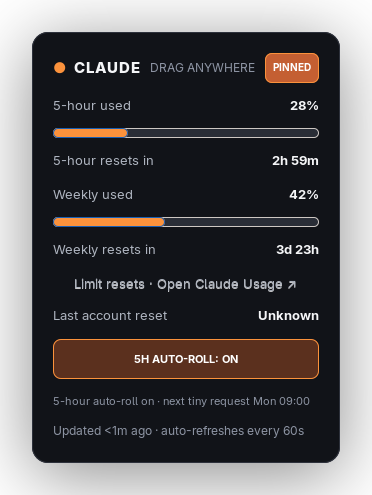
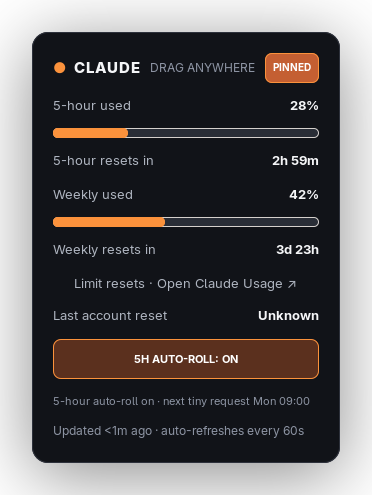
Fix Claude login renewal and orange progress borders

diff --git a/tests/test_claude_client.py b/tests/test_claude_client.py
@@ -12,6 +12,7 @@ from types import SimpleNamespace
 from unittest.mock import Mock, patch
 from urllib.error import HTTPError, URLError
 
+from codex_widget import __version__
 from codex_widget.claude_client import ClaudeClient, ClaudeClientError, USAGE_URL, detect_claude
 
 
@@ -81,18 +82,37 @@ class ClaudeClientTests(unittest.TestCase):
     def test_refreshes_expired_credentials_and_preserves_other_fields(self):
         document = json.loads(self.path.read_text())
         document["claudeAiOauth"]["expiresAt"] = 0
+        document["claudeAiOauth"]["scopes"] = ["user:profile", "user:inference"]
         self.path.write_text(json.dumps(document))
         opener = Mock(side_effect=[
-            response({"access_token": "new-access", "refresh_token": "new-refresh", "expires_in": 3600}),
+            HTTPError(USAGE_URL, 401, "Unauthorized", {}, None),
+            response({"access_token": "new-access", "refresh_token": "new-refresh", "expires_in": 3600,
+                      "refresh_token_expires_in": 7200}),
             response(self.data),
         ])
-        self.client(opener).read_rate_limits()
+        with patch("codex_widget.claude_client.time.time", return_value=1000):
+            self.client(opener).read_rate_limits()
         saved = json.loads(self.path.read_text())
         self.assertEqual(saved["claudeAiOauth"]["accessToken"], "new-access")
+        self.assertEqual(saved["claudeAiOauth"]["refreshToken"], "new-refresh")
+        self.assertEqual(saved["claudeAiOauth"]["expiresAt"], 4_600_000)
+        self.assertEqual(saved["claudeAiOauth"]["refreshTokenExpiresAt"], 8_200_000)
         self.assertEqual(saved["claudeAiOauth"]["subscriptionType"], "pro")
         self.assertEqual(saved["otherCredential"], {"preserve": True})
         self.assertEqual(self.path.stat().st_mode & 0o777, 0o600)
         self.assertEqual(opener.call_args.args[0].get_header("Authorization"), "Bearer new-access")
+        renewal = opener.call_args_list[1].args[0]
+        self.assertEqual(json.loads(renewal.data)["scope"], "user:profile user:inference")
+        self.assertEqual(renewal.get_header("User-agent"), f"codex-widget/{__version__}")
+
+    def test_stale_local_expiry_does_not_interrupt_working_usage(self):
+        document = json.loads(self.path.read_text())
+        document["claudeAiOauth"]["expiresAt"] = 0
+        self.path.write_text(json.dumps(document))
+        opener = Mock(return_value=response(self.data))
+        self.assertEqual(self.client(opener).read_rate_limits().used_percent, 42)
+        self.assertEqual(opener.call_count, 1)
+        self.assertEqual(opener.call_args.args[0].full_url, USAGE_URL)
 
     def test_unauthorized_usage_refreshes_once(self):
         opener = Mock(side_effect=[
@@ -106,12 +126,79 @@ class ClaudeClientTests(unittest.TestCase):
     def test_failed_login_never_leaks_token_error_bodies(self):
         opener = Mock(side_effect=[
             HTTPError(USAGE_URL, 401, "test-access", {}, None),
-            HTTPError(USAGE_URL, 400, "test-refresh", {}, None),
+            HTTPError(USAGE_URL, 400, "test-refresh", {}, response({
+                "error": "invalid_grant", "error_description": "test-refresh",
+            })),
         ])
         with self.assertRaisesRegex(ClaudeClientError, "claude auth login") as caught:
             self.client(opener).read_rate_limits()
         self.assertNotIn("test-access", str(caught.exception))
         self.assertNotIn("test-refresh", str(caught.exception))
+
+    def test_temporary_renewal_failures_do_not_claim_logout(self):
+        for status, body in (
+            (403, {"status": 403, "cloudflare_error": True, "detail": "test-refresh"}),
+            (500, {"error": "server_error"}),
+            (400, {"error": "invalid_request"}),
+        ):
+            with self.subTest(status=status):
+                before = self.path.read_text()
+                opener = Mock(side_effect=[
+                    HTTPError(USAGE_URL, 401, "Unauthorized", {}, None),
+                    HTTPError(USAGE_URL, status, "test-refresh", {}, response(body)),
+                ])
+                with self.assertRaisesRegex(ClaudeClientError, f"HTTP {status}") as caught:
+                    self.client(opener).read_rate_limits()
+                self.assertNotIn("expired", str(caught.exception))
+                self.assertNotIn("claude auth login", str(caught.exception))
+                self.assertNotIn("test-refresh", str(caught.exception))
+                self.assertEqual(self.path.read_text(), before)
+
+    def test_forbidden_usage_does_not_claim_logout(self):
+        opener = Mock(side_effect=HTTPError(USAGE_URL, 403, "Forbidden", {}, None))
+        with self.assertRaisesRegex(ClaudeClientError, "access denied") as caught:
+            self.client(opener).read_rate_limits()
+        self.assertNotIn("claude auth login", str(caught.exception))
+
+    def test_picks_up_cli_token_rotation_without_restart_or_cached_old_usage(self):
+        opener = Mock(side_effect=[response(self.data), response(self.data)])
+        client = self.client(opener)
+        client.read_rate_limits()
+        document = json.loads(self.path.read_text())
+        document["claudeAiOauth"]["accessToken"] = "cli-new-access"
+        self.path.write_text(json.dumps(document))
+        client.read_rate_limits()
+        self.assertEqual(opener.call_count, 2)
+        self.assertEqual(opener.call_args.args[0].get_header("Authorization"), "Bearer cli-new-access")
+
+    def test_reuses_cli_token_rotated_during_failed_renewal(self):
+        def renewed_by_cli(*_args, **_kwargs):
+            document = json.loads(self.path.read_text())
+            document["claudeAiOauth"]["accessToken"] = "cli-new-access"
+            self.path.write_text(json.dumps(document))
+            raise HTTPError(USAGE_URL, 400, "Bad Request", {}, response({"error": "invalid_grant"}))
+
+        def request(req, **kwargs):
+            if req.get_method() == "POST":
+                return renewed_by_cli(req, **kwargs)
+            if req.get_header("Authorization") == "Bearer cli-new-access":
+                return response(self.data)
+            raise HTTPError(USAGE_URL, 401, "Unauthorized", {}, None)
+        opener = Mock(side_effect=request)
+        client = self.client(opener)
+        self.assertEqual(client.read_rate_limits().used_percent, 42)
+        self.assertEqual(opener.call_args.args[0].get_header("Authorization"), "Bearer cli-new-access")
+
+    def test_renewal_rate_limit_blocks_forced_reads(self):
+        opener = Mock(side_effect=[
+            HTTPError(USAGE_URL, 401, "Unauthorized", {}, None),
+            HTTPError(USAGE_URL, 429, "Slow down", {}, response({"error": "rate_limited"})),
+        ])
+        client = self.client(opener)
+        for force in (False, True):
+            with self.assertRaisesRegex(ClaudeClientError, "rate limited"):
+                client.read_rate_limits(force=force)
+        self.assertEqual(opener.call_count, 2)
 
     def test_rate_limit_blocks_even_forced_verification_reads(self):
         opener = Mock(side_effect=HTTPError(USAGE_URL, 429, "slow down", {}, None))

diff --git a/src/codex_widget/claude_client.py b/src/codex_widget/claude_client.py
@@ -14,6 +14,7 @@ from typing import Any, Callable
 from urllib.error import HTTPError, URLError
 from urllib.request import Request, urlopen
 
+from . import __version__
 from .models import UsageSnapshot
 
 USAGE_URL = "https://api.anthropic.com/api/oauth/usage"
@@ -22,6 +23,7 @@ _TOKEN_URL = "https://platform.claude.com/v1/oauth/token"
 # Public client identifier shipped in Claude Code's OAuth configuration.
 _CLIENT_ID = "9d1c250a-e61b-44d9-88ed-5944d1962f5e"
 _MAX_BYTES = 1_000_000
+_USER_AGENT = f"codex-widget/{__version__}"
 
 
 class ClaudeClientError(RuntimeError):
@@ -107,23 +109,44 @@ class ClaudeClient:
             if not isinstance(refresh, str) or not refresh:
                 raise ClaudeClientError("Claude session expired; run claude auth login")
             try:
+                payload = {
+                    "grant_type": "refresh_token",
+                    "refresh_token": refresh,
+                    "client_id": _CLIENT_ID,
+                }
+                scopes = oauth.get("scopes")
+                if isinstance(scopes, list) and scopes and all(isinstance(s, str) for s in scopes):
+                    payload["scope"] = " ".join(scopes)
                 result = self._request(Request(
                     _TOKEN_URL,
-                    data=json.dumps({
-                        "grant_type": "refresh_token",
-                        "refresh_token": refresh,
-                        "client_id": _CLIENT_ID,
-                    }).encode(),
-                    headers={"Content-Type": "application/json", "Accept": "application/json"},
+                    data=json.dumps(payload).encode(),
+                    headers={
+                        "Content-Type": "application/json", "Accept": "application/json",
+                        "User-Agent": _USER_AGENT,
+                    },
                     method="POST",
                 ))
             except HTTPError as exc:
-                exc.close()
+                # Only an explicit OAuth rejection means the saved login expired.
+                # Edge-service failures (including 403) must not be called logout.
+                try:
+                    failure = json.loads(exc.read(_MAX_BYTES + 1))
+                except (UnicodeDecodeError, ValueError, OSError):
+                    failure = None
+                finally:
+                    exc.close()
                 # Claude Code may have refreshed concurrently; never expose a token body.
                 _, latest = self._credentials()
                 if latest["accessToken"] != old_token:
                     return latest["accessToken"]
-                raise ClaudeClientError("Claude session expired; run claude auth login") from None
+                if isinstance(failure, dict) and failure.get("error") == "invalid_grant":
+                    raise ClaudeClientError("Claude session expired; run claude auth login") from None
+                if exc.code == 429:
+                    self._retry_at = time.monotonic() + 300
+                    raise ClaudeClientError("Claude login renewal rate limited; retrying in 5m") from None
+                raise ClaudeClientError(
+                    f"Claude login renewal failed (HTTP {exc.code}); retrying automatically"
+                ) from None
             token = result.get("access_token")
             expiry = result.get("expires_in")
             if (
@@ -131,7 +154,7 @@ class ClaudeClient:
                 or type(expiry) not in (int, float)
                 or not math.isfinite(expiry) or expiry <= 0
             ):
-                raise ClaudeClientError("Claude could not renew the login; run claude auth login")
+                raise ClaudeClientError("Claude returned invalid login renewal data; retrying automatically")
             document, latest = self._credentials()
             if latest["accessToken"] != old_token:
                 return latest["accessToken"]
@@ -141,6 +164,12 @@ class ClaudeClient:
                 latest["refreshToken"] = result["refresh_token"]
             if isinstance(result.get("scope"), str):
                 latest["scopes"] = result["scope"].split()
+            refresh_expiry = result.get("refresh_token_expires_in")
+            if (
+                type(refresh_expiry) in (int, float)
+                and math.isfinite(refresh_expiry) and refresh_expiry > 0
+            ):
+                latest["refreshTokenExpiresAt"] = int((time.time() + refresh_expiry) * 1000)
             fd, temporary = tempfile.mkstemp(dir=self.credentials_path.parent)
             try:
                 with os.fdopen(fd, "w") as output:
@@ -161,9 +190,8 @@ class ClaudeClient:
             else:
                 _, oauth = self._credentials()
                 token = oauth["accessToken"]
-                expires = oauth.get("expiresAt")
-                if type(expires) in (int, float) and expires <= (time.time() + 60) * 1000:
-                    token = self._refresh_token(token)
+                # Ask usage first: the server decides whether this token is still
+                # usable. A stale local expiry must not interrupt working usage.
             if not force and token == self._cache_token and time.monotonic() < self._next_fetch:
                 if self._cached is not None:
                     return self._cached
@@ -173,7 +201,7 @@ class ClaudeClient:
                     document = self._request(Request(USAGE_URL, headers={
                         "Authorization": f"Bearer {token}",
                         "anthropic-beta": "oauth-2025-04-20",
-                        "User-Agent": "codex-widget/0.1.0",
+                        "User-Agent": _USER_AGENT,
                         "Accept": "application/json",
                     }))
                     break
@@ -182,8 +210,10 @@ class ClaudeClient:
                     if exc.code == 401 and attempt == 0 and not env_token:
                         token = self._refresh_token(token)
                         continue
-                    if exc.code in (401, 403):
+                    if exc.code == 401:
                         raise ClaudeClientError("Claude login cannot read usage; run claude auth login") from None
+                    if exc.code == 403:
+                        raise ClaudeClientError("Claude usage access denied (HTTP 403); retrying automatically") from None
                     if exc.code == 429:
                         self._retry_at = time.monotonic() + 300
                         raise ClaudeClientError("Claude usage rate limited; retrying in 5m") from None

diff --git a/src/codex_widget/ui.py b/src/codex_widget/ui.py
@@ -56,8 +56,8 @@ window.codex-widget {
 #keeper:checked { background: #163a66; border-color: #60a5fa; color: #ffffff; }
 #keeper-status { color: #8c93a2; font-size: 11px; }
 progressbar trough { min-height: 8px; border-radius: 8px; background: #292d36; }
-progressbar progress { min-height: 8px; border-radius: 8px; background: #60a5fa; }
-window.claude-widget progressbar progress { background: #fb923c; }
+progressbar progress { min-height: 8px; border-radius: 8px; background: #60a5fa; border-color: #60a5fa; box-shadow: none; }
+window.claude-widget progressbar progress { background: #fb923c; border-color: #fb923c; }
 window.claude-widget #provider-switch:hover #brand { color: #fb923c; }
 window.claude-widget #pin:hover { border-color: #fb923c; }
 window.claude-widget #pin:checked { background: #c45f32; border-color: #fb923c; }

diff --git a/src/codex_widget/__init__.py b/src/codex_widget/__init__.py
@@ -1,3 +1,3 @@
 """Codex and Claude usage and reset widget for Linux."""
 
-__version__ = "0.2.0"
+__version__ = "0.2.1"

diff --git a/README.md b/README.md
@@ -137,7 +137,13 @@ and missing or expired subscription authentication produces a sign-in message in
 the Claude view. `CLAUDE_CONFIG_DIR` is supported. The widget reads Claude's own
 OAuth usage endpoint for five-hour and weekly percentages and reset timestamps.
 It reuses and, when possible, renews Claude Code's saved login; tokens are never
-copied into widget state. The usage endpoint is an internal Claude interface and
+copied into widget state. Renewal sends the saved OAuth scopes and a widget user
+agent, and saves both rotated tokens and their expiry times together. The widget
+checks usage before renewing, so a stale local expiry timestamp does not interrupt
+a working token. It picks up login changes made by Claude Code without restarting.
+Temporary renewal or access failures report their HTTP status and retry. A rejected
+refresh token or repeated unauthorized usage asks you to sign in again.
+The usage endpoint is an internal Claude interface and
 may change independently of this widget.
 
 The same auto-roll toggle works in Claude with its own persisted opt-in, retry

diff --git a/CHANGELOG.md b/CHANGELOG.md
@@ -1,5 +1,11 @@
 # Changelog
 
+## 0.2.1 — 2026-10-04
+
+- Fix Claude token renewal requests by including saved OAuth scopes and the widget user agent, and save rotated access/refresh tokens with both expiry times.
+- Check actual usage authorization before renewing; stale local expiry timestamps no longer interrupt working tokens. Distinguish temporary HTTP failures from an explicitly expired login, and respect renewal rate-limit backoff.
+- Match Claude progress bar borders to the orange fill instead of inheriting the GTK theme's blue border.
+
 ## 0.2.0 — 2026-10-04
 
 - Automatically detect Claude Code and switch providers by clicking the widget's header. Claude uses orange accents; Codex retains blue accents.
